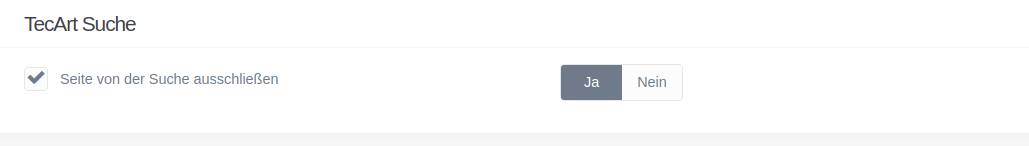
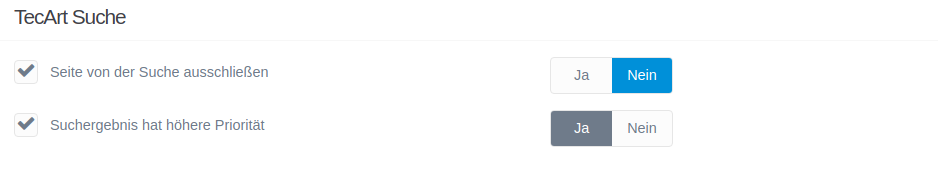
Add searchbox input focus and priority sort in search result list.

diff --git a/assets/js/tecart-search.min.js b/assets/js/tecart-search.min.js
@@ -1,1 +1,1 @@
-$(".tecart-search-toggle").on("click",function(){$(this).parent().find(".tecart-search-form").toggle("display: inline-block")}),$(document).ready(function(){$.ajaxSetup({cache:!1}),$(".tecart-search-box").keyup(function(t){const e=$(this).val(),a=$(this).data("storage"),s=$(this).data("linktarget"),i=$(this).data("empty"),c=$(this).data("resultheadline"),n=$(this).parent().find(".tecart-search-results"),r=new RegExp(e,"igm");let l="/user/data/tecart-search-index.json";"pages"===a&&(l="/user/pages/assets/tecart-search-index.json"),$.getJSON(l,function(t){"string"==typeof t||""==t||null==t?n.html('<li class="list-group-item link-class">'+i+"</li>"):(n.html('<li class="list-group-item headline-class"><h2>'+c+"</h2></li>"),$.each(t,function(t,e){-1==e.title.search(r)&&-1==e.content.search(r)||n.append('<li class="list-group-item link-class"><a href="'+e.route+'" target="'+s+'">'+e.title+' | <span class="text-muted">'+e.route+"</span></a></li>")}))})}),$(".tecart-search-results").on("click","li",function(){const t=$(this).find("a").attr("href"),e=$(this).find("a").attr("target");window.open(t,e),$(".tecart-search-results").html("")}),$(".tecart-search-close").on("click",function(){$(".tecart-search-form").toggle("display: none")})});
+$(".tecart-search-toggle").on("click",function(){$(this).parent().find(".tecart-search-form").toggle("display: inline-block"),$("input.tecart-search-box").focus()}),$(document).ready(function(){$.ajaxSetup({cache:!1}),$(".tecart-search-box").keyup(function(t){var e=$(this).val(),a=$(this).data("storage"),s=$(this).data("linktarget"),c=$(this).data("empty"),i=$(this).data("resultheadline");const r=$(this).parent().find(".tecart-search-results");var n=new RegExp(e,"igm");let l="pages"===a?"/user/pages/assets/tecart-search-index.json":"/user/data/tecart-search-index.json";$.getJSON(l,function(t){"string"==typeof t||""==t||null==t?r.html('<li class="list-group-item link-class">'+c+"</li>"):(r.html('<li class="list-group-item headline-class"><h2>'+i+"</h2></li>"),$.each(t,function(t,e){-1==e.title.search(n)&&-1==e.content.search(n)||r.append('<li class="list-group-item link-class"><a href="'+e.route+'" target="'+s+'">'+e.title+' | <span class="text-muted">'+e.route+"</span></a></li>")}))})}),$(".tecart-search-results").on("click","li",function(){var t=$(this).find("a").attr("href"),e=$(this).find("a").attr("target");window.open(t,e),$(".tecart-search-results").html("")}),$(".tecart-search-close").on("click",function(){$(".tecart-search-form").toggle("display: none")})});

diff --git a/assets/js/tecart-search.js b/assets/js/tecart-search.js
@@ -2,6 +2,7 @@
 $('.tecart-search-toggle').on('click', function() {
     // use classes and parent to be able to use search more than once on one page
     $(this).parent().find('.tecart-search-form').toggle('display: inline-block');
+    $("input.tecart-search-box").focus();
 });
 // End - Search Bar & Toggle
 

diff --git a/classes/BlueprintHelper/BlueprintHelper.php b/classes/BlueprintHelper/BlueprintHelper.php
@@ -11,34 +11,35 @@ use Grav\Common\Data\Data;
  */
 class BlueprintHelper extends Data {
 
-  /**
-   * function to call with parameters from blueprints to dynamically fetch the  option list
-   * do this by using data-*@: notation as the key, where * is the field name you want to fill with the result of the function call
-   *
-   * data-options@: 'Grav\Plugin\TecartSearch\Classes\BlueprintHelper\BlueprintHelper::getAdminPermissionsForBlueprintOptions'
-   *
-   * @return array
-   */
-  public static function getAdminPermissionsForBlueprintOptions(): array
-  {
-    $grav        = Grav::instance();
-    $return      = array();
-    $permissions = '';
-
-    if (!isset($grav['admin'])) {
-      return $return;
+    /**
+     * function to call with parameters from blueprints to dynamically fetch the  option list
+     * do this by using data-*@: notation as the key, where * is the field name you want to fill with the result of the function call
+     *
+     * data-options@: 'Grav\Plugin\TecartSearch\Classes\BlueprintHelper\BlueprintHelper::getAdminPermissionsForBlueprintOptions'
+     *
+     * @return array
+     */
+    public static function getAdminPermissionsForBlueprintOptions(): array
+    {
+        $grav = Grav::instance();
+        $return = array();
+        $permissions = array();
+        if (!isset($grav['admin'])) {
+            return $return;
+        }
+        if (\method_exists($grav['admin'], 'getPermissions')) {
+            $permissions = $grav['admin']->getPermissions();
+        } elseif (\method_exists($grav['permissions'], 'getInstances')) {
+            $permissions =$grav['permissions']->getInstances();
+        }
+        if (is_array($permissions) && !empty($permissions)) {
+            foreach (array_keys($permissions) as $permission) {
+                $return[] = [
+                    'text' => $permission,
+                    'value' => $permission
+                ];
+            }
+        }
+        return $return;
     }
-    if (\method_exists($grav['permissions'], 'getInstances')) {
-      $permissions = $grav['permissions']->getInstances();
-    }
-    if (is_array($permissions) && !empty($permissions)) {
-      foreach (array_keys($permissions) as $permission) {
-        $return[] = [
-          'text' => $permission,
-          'value' => $permission
-        ];
-      }
-    }
-    return $return;
-  }
 }

diff --git a/classes/SearchIndexer/SearchIndexer.php b/classes/SearchIndexer/SearchIndexer.php
@@ -73,12 +73,15 @@ class SearchIndexer {
             $routes = array_unique($pages->routes());
             ksort($routes);
 
+            $jsonArray = array();
+
             foreach ($routes as $route => $path) {
 
                 /** @var PageInterface $page */
                 $page = $pages->get($path);
                 $header = $page->header();
                 $page_ignored = $header->tecartsearch['ignore'] ?? false;
+                $page_has_higher_priority = $header->tecartsearch['has_higher_priority'] ?? false;
 
                 // only published and routable pages
                 if ($page->routable() && $page->published() && $page_ignored === false){
@@ -88,21 +91,25 @@ class SearchIndexer {
                     //$page_metadata = $page->metadata();
                     $page_content =$page->rawMarkdown();
 
-                    $page_data[] = [
+                    $page_data = [
                         'title' => $page->title(),
                       //'metadata' => $page_metadata,
                         'content' => $page_content,
                         'route' => $page_route,
                         'location' => $location,
+                        'has_higher_priority' => $page_has_higher_priority,
                     ];
-                    //dump($page);die();
 
                     // Encode post data to JSON data format. Pretty-Print for easy editing
-                    $jsonData = json_encode($page_data, JSON_PRETTY_PRINT);
-
-                    file_put_contents($file,$jsonData) ;
+                    array_push($jsonArray, $page_data);
                 }
             }
+            $sort_key = array_column($jsonArray, 'has_higher_priority');
+            array_multisort($sort_key, SORT_DESC, $jsonArray);
+
+            $jsonData = json_encode($jsonArray, JSON_PRETTY_PRINT);
+            file_put_contents($file,$jsonData) ;
+
             return  true;
         }
         return false;

diff --git a/README.md b/README.md
@@ -70,11 +70,18 @@ Plugin settings in Grav backend
 
 ![Plugin Settings](screenshot_settings.png)
 
-## Exclude pages from index
+## Page option settings
+
+![Search option pages](screenshot_page_options.png)
+
+### Exclude pages from index
 
 In options tab of page settings you can set option to ignore page from search.
 
-![Search ignore pages](screenshot_page_options.png)
+### Set higher priority in search result
+
+In options tab of page settings you can set if page has a higher priority in search result list.
+List items are sorted by this field (true/false) descending.
 
 ## Indexing
 
@@ -84,22 +91,25 @@ Only pages with **$page->routable()** and  **$page->published()** are included.
 ```json
 [
     {
-        "title": "Add-On-Framework f\u00fcr TecArt CRM Pro",
-        "content": "Kreieren Sie Ihre eigenen integrierten Add-ons f\u00fcr die CRM-Software von TecArt \u2013 unser professionelles Entwickler-Framework macht es m\u00f6glich. Dank zukunftsweisendem Customizing bleiben Sie in Ihren **Anwendungen und Erweiterungen flexibel und erschaffen eigene, effiziente Zusatzl\u00f6sungen** f\u00fcr Ihr Unternehmen. Setzen Sie mit dem Add-on-Framework auf eine Individuall\u00f6sung mit tiefer Integration in die Softwarestruktur!",
-        "route": "\/add-on-framework",
-        "location": "http:\/\/172.17.0.2\/add-on-framework"
+        "title": "CRM Preise - Cloud Server Vergleich \u2696 TecArt CRM Pro",
+        "content": "Die Kosten f\u00fcr den Betrieb der TecArt CRM-Software sind ebenso individuell wie Ihre Anforderungen. Je nach Bedarf und Lastenheft kann unsere [kostenfreie CRM-Freeware](https:\/\/www.tecart.de\/crm-free \"Kostenlose CRM Software - Cloud CRM Free\") bereits alle Bed\u00fcrfnisse erf\u00fcllen. Wollen Sie hoch hinaus mit Ihrem Business, lohnt sich die Investition in unsere [Cloud-Server-Software \u2013 ab 38 Euro im Monat](https:\/\/www.tecart.de\/crm-professional#konfigurieren \"TecArt Preise CRM Pro\") f\u00fcr jeden Nutzer.",
+        "route": "\/cloud-server-software",
+        "location": "http:\/\/172.17.0.2\/cloud-server-software",
+        "has_higher_priority": true
     },
     {
-        "title": "AGBs & rechtliches der TecArt GmbH",
-        "content": "- AGB - Allgemeine Gesch\u00e4ftsbedingungen\n- Vertrag zur Auftragsverarbeitung\n- Verf\u00fcgbarkeitsregelung",
-        "route": "\/agb-avv-verfuegbarkeitsregelung",
-        "location": "http:\/\/172.17.0.2\/agb-avv-verfuegbarkeitsregelung"
+        "title": "24\/7 Kundenservice - Das m\u00fcssen Support Ticket Systeme leisten",
+        "content": "##Was lernen Sie aus diesem Artikel?\n> Lassen Sie den Kunden weiterhin K\u00f6nig sein, aber ziehen Sie daraus Ihren eigenen Nutzen! Ticketsysteme sind wahre Servicewunder, die f\u00fcr Sie arbeiten. Die wichtigsten Funktionen, die Sie hierbei wirklich brauchen und wissen sollten, beschreibe ich Ihnen zusammengefasst im Artikel. Und weil eine Software nur so gut ist, wie ihr monet\u00e4rer Mehrwert, teile ich mit Ihnen einige Kniffe zur schnellen Einsch\u00e4tzung Ihrer Einsparpotenziale. \n\n![](header-fullscreen-bgneu-1650x880-test.jpg) \n\n##So verk\u00fcrzen Ticketsysteme die Bearbeitungszeiten von Kundenanfragen\nEin [Support Ticket System ](https:\/\/www.tecart.de\/ticketsystem) kanalisiert und strukturiert eingehende Anfragen. Es erm\u00f6glicht eine koordinierte Abarbeitung und integriert definierte Service-Prozesse. Eingehende Anfragen k\u00f6nnen in Kategorien unterteilt und an verantwortliche Teams oder einzelne Mitarbeiter zur Abarbeitung delegiert werden. Anfragen werden aus verschiedenen Quellen zusammengef\u00fchrt: Support E-Mails werden genauso bearbeitet, wie zum Beispiel Kundenanfragen \u00fcber Ihre Webseite via Web-Formular oder Kundenportal. Auch telefonisch angenommene Anfragen werden im System aufgenommen, beosnders einfach geht das alles, wenn die Kommunikationskan\u00e4le (E-Mail, Telefonanlage, Website\/Chat) direkt an das Ticketsystem angebunden sind. Im Idealfall ergibt sich eine Kundenhistorie - dank dieser Zentralisierung (360 Grad Blick) behalten Sie so den \u00dcberblick. Gute Ticketing-Systeme sind auch immer gute Collaboration-Tools, denn es geht im Kern um externe und interne Kommunikation. Nicht umsonst findet man diese Funktion oft in CRM-Systemen wieder.  Benachrichtigungen und Wiedervorlagen\/Erinnerungen stellen sicher, dass Anfragen nicht verloren gehen oder vergessen werden. Genau das, was Ihre Kunden zus\u00e4tzlich auf die Palme bringen w\u00fcrde.\n\n##Welche Funktionen muss ein Support Ticket System bieten?\nUm das von Ihnen gew\u00fcnschte, hohe Ma\u00df an Servicequalit\u00e4t zu erreichen, m\u00fcssen Ihre Prozesse stimmen! Die Abarbeitung einer Anfrage bzw. die Behebung eines Problems darf nicht stagnieren und der Bearbeitungsstand muss sich laufend \u00e4ndern. \u00dcber jede \u00c4nderung sollte der Anfragesteller informiert werden (z.B. Status-E-Mail).  Nur so f\u00fchlt sich ein Kunde nicht hingehalten, vergessen oder vernachl\u00e4ssigt. Der Lohn ist eine positive Einstellung zu Ihrem Unternehmen und Ihrem Service, auch wenn mal etwas nicht so funktioniert, wie erwartet. Das zahlt sich in der Regel durch Kundentreue und hohe Cross- und Upselling-Chancen aus. Besonders bei der Abbildung Ihrer Workflows und m\u00f6glicher Automatismen brauchen Sie ein Trouble Ticket System, dass sich hervorragend auf die eigenen Abl\u00e4ufe anpassen l\u00e4sst. Zum Beispiel [IT-Abteilungen, IT-Dienstleister und Softwarehersteller brauchen ein anpassbares Ticketsystem mit CRM- und ERP Funktionen ](https:\/\/www.tecart.de\/software-fur-it-branche).  \n\n![](ticketsystem-3d-animation-01.gif) \n**Abbildung:** [Screenshots vom TecArt CRM- & ERP f\u00fcr IT-Unternehmen ](https:\/\/www.tecart.de\/software-fur-it-branche#Features-IT-Unternehmen)\n\n\n\n###Mehr als nur Textfelder \nModerne Support Ticket Systeme m\u00fcssen neben der reinen Ticket-Datenbank auch weitere Informationen bereithalten k\u00f6nnen. Egal, ob Screenshots oder Dokumente. Weiterf\u00fchrende oder fallspezifische Inhalte m\u00fcssen im Ticket erfasst und verf\u00fcgbar sein. \u00c4u\u00dferst sinnvoll sind Verkn\u00fcpfungen mit anderen Vorg\u00e4ngen und Informationen. Das k\u00f6nnen Servicevertr\u00e4ge sein, genauso wie Informationen zum gekauften Produkt\/Ger\u00e4t (Seriennummern, Garantiefristen, Leistungsmerkmale etc.). Anders herum hilft es Account Managern und Kundenbetreuern sehr, wenn sie Informationen dar\u00fcber haben, welche Anfragen ihr Kunde an sie gerichtet hat.\n\n###Kategorisierung von Tickets \nTickets unterscheiden sich oft in der Anfrageart, aber z.B. auch im Bezug zu Ihrem Portfolio. Geht es um ein Ger\u00e4t oder eine Dienstleistung? Oder beides? In der Regel werden thematisch unterschiedliche  Anfragen auch von unterschiedlichen Mitarbeitern bearbeitet, je nach Qualifikation. Kategorien helfen dabei eine Anfrage in den richtigen Workflow zu bringen. Sehr gut konzipierte Ticketsysteme verf\u00fcgen \u00fcber einen hohen Anteil von Automatismen f\u00fcr standardisierte Arbeitsschritte und f\u00fchren den Anwender so durch den Abarbeitungsprozess.  Anhand von Kategorien k\u00f6nnen auch Priorit\u00e4ten f\u00fcr die Abarbeitung definiert werden.\n\n###Statusverteilung \nUm dem Kunden und anderen Mitarbeitern den aktuellen Stand eines Tickets anzuzeigen, m\u00fcssen unterschiedliche Status (nicht Stati!) angelegt werden k\u00f6nnen. Zwischen \"offen\", \"in Bearbeitung\" und \"erledigt\" liegen manchmal Welten... Zus\u00e4tzlich zum Beabeitungsstand kann der Status auch die Zust\u00e4ndigkeit beeinflussen. An dieser Stelle ist es sinnvoll, wenn die Software die beteiligten Personen (Kollegen und Kunden) bei einer \u00c4nderung automatisch benachrichtigt. Der Kollege wei\u00df Bescheid, der Kunde auch, und im Optimalfall bleiben Nachfragen einfach aus. \n\n###Zust\u00e4ndigkeitsverteilung \nNat\u00fcrlich muss ein Ticket auch von jemandem bearbeitet werden. Durch diese Funktion wird direkt am Ticket gekennzeichnet, welche Person f\u00fcr die weitere Bearbeitung zust\u00e4ndig ist. Dadurch entsteht eine Verbindlichkeit \u00fcber die Ausf\u00fchrung. Die Service-Leute haben besten Fall auch eine \u00dcbersicht im einfachen, aber effizienten Schema: eigene Tickets - offen \/ in Bearbeitung \/ erledigt. \n\n###Automatisierte Prozess\u00fcberwachung \nControllinginstrumente informieren fortlaufend \u00fcber wichtige Faktoren, wie Bearbeitungsdauer, Terminierung und Bearbeitungsqualit\u00e4t. Auf diese Weise werden Mitarbeiter an zeitkritische Tickets erinnert oder Projektleiter werden \u00fcber das Anfragevolumen informiert. Das setzt voraus, dass die Bearbeitungszeiten von Aufgaben, Anrufen und Terminen automatisch erfasst werden. Zus\u00e4tzlich m\u00fcssen sich alle Aktivit\u00e4ten mit Start und Endzeiten terminieren lassen. Statistische Auswertungen bietet an dieser Stelle ein weiteres, wichtiges Werkzeug, um die Servicequalit\u00e4t dauerhaft sicherzustellen und begleitende Ma\u00dfnahmen einzuleiten. \n\n###Workflows und Regeln festlegen \nDamit Sie Ihre Standards, z.B. f\u00fcr SLAs, halten oder gar anheben k\u00f6nnen, spielen Workflows eine zentrale Rolle. Dank Workflows stellen Sie sicher, dass Tickets schnell zum richtigen Bearbeiter kommen und effizient abgeabeitet werden. Au\u00dferdem sind Workflows ein zentrales Element zur Einhaltung von Qualit\u00e4tsmanagement- und Compliance-Vorgaben, insbesondere dann, wenn Ihre Organisation zertfiziert ist, z.B. nach einer ISO-Norm.\n\nAu\u00dferdem priorisieren Workflows die Tickets anhand von Dringlichkeiten und Kundenstatus automatisch. Abh\u00e4ngig von Ihren Anforderungen wirken die Regeln schon bei Erstellung des Tickets oder bei der Aktualisierung. Ebenfalls lassen sich so individualisierbare Benachrichtugungen an Mitarbeiter und Kunden versenden. \n\n##Ab wann lohnt sich der Einsatz eines Ticketsystems?\nDer Einsatz lohnt sich meist genau dann, wenn das Stresslevel mit der Frustrationsgrenze kollidiert. Das gilt f\u00fcr Ihre Kunden als auch f\u00fcr Sie selbst. Sobald die Menge an Anfragen einige wenige E-Mails und Anrufe an eine einzelne Person \u00fcbersteigt, lohnt sich der Einsatz eines Support Ticket Systems. Gute Ticketsysteme passen zu Ihren Anforderungen, egal ob vollintegriertes Workflow- und Compliance-Wunder oder einfach nur ein zentrales Tool zum Handling von Anfragen und Kommunikationsverl\u00e4ufen.\n\nNat\u00fcrlich gibt es neben den vorgestellten Funktionen noch weitere, die wichtig sein k\u00f6nnen. Das perfekte Setup erfahren Sie aber nur, wenn Sie wissen, was Sie wollen bzw. welche Ziele Sie erreichen wollen. Analysieren Sie Ihre Arbeitsweise und konzipieren Sie Ihre 100-Prozent-L\u00f6sung! Dann  gehen Sie auf Recherche und schauen, welches System am Besten zu Ihren Vorstellungen passt.   Wenn Sie alle Ihre Anforderungen ernsthaft und im Sinne Ihres Kunden aufgenommen haben, werden Sie bei der anschlie\u00dfenden Recherche feststellen, dass kaum ein Ticketsystem am Markt Ihre Anforderungen im Standard erf\u00fcllt. Je flexibler und individualisierbarer Ihre pr\u00e4ferierte Software ist, umso kosteng\u00fcnstiger werden die Folgekosten neben Lizenzpreisen sein. Der Einsatz eines Cloud Ticket Systems kann sich genauso lohnen wie der Betrieb einer eigenen Server-L\u00f6sung. Wenn im m\u00f6glichen Budgetrahmen ca. 80% Ihrer Optimall\u00f6sung abgedeckt sind, haben Sie in der Regel das richtige System gefunden.\n\nEgal wof\u00fcr Sie sich entscheiden: F\u00fcr eine hohe Kundenbindung ist ein agiler und zielf\u00fchrender Support unabdinglich. Ein Ticketsystems kann die Servicequalit\u00e4t drastisch verbessern und gleichzeitig die Arbeit erleichtern und besser strukturieren. Durch die gro\u00dfe Anzahl an kostenpflichtigen und kostenlosen Ticketsystemen ist die Einf\u00fchrung auch f\u00fcr mittelst\u00e4ndische Unternehmen machbar.\n\n##Wie hoch ist der ROI bei Ticketsystemen?\nLeider l\u00e4sst sich diese Frage nicht pauschal beantworten. Im Allgemeinen sind Service- und Supportabteilungen nicht an der prim\u00e4re Wertsch\u00f6pfung beteiligt. Ein direkter Bezug zum Umsatz ist nur in Einzelf\u00e4llen herstellbar. Das erschwert die ROI-Berechnung. Allerdings tragen Ticketsysteme zur Kostenreduzierung bei. So l\u00e4sst sich eine monet\u00e4re Bewertung der Mehrwerte berechnen. Grunds\u00e4tzlich wird der Mehrwert bzw. die Wertsch\u00f6pfung von Ticketsystemen in 5 Bereiche unterteilt.\n\n###1. Bereitstellung einer Wissensdatenbank\nSicher ist jede Anfrage individuell. Dennoch \u00e4hneln sich L\u00f6sungen und L\u00f6sungswege. Damit Ihre Mitarbeiter schneller Probleme l\u00f6sen, helfen Handbuch, Knowledgebase und\/oder Wiki mit Beschreibungen, Screenshots und Videos. Das reduziert die Zeit zur L\u00f6sungsfindung. Schauen Sie sich einfach Ihre aktuelle Arbeitsweise an und ermitteln Sie Ihren Zeit-Durchschnittswert pro Kundenvorfall. Nun bilden Sie Ihren Kundenvorfall in der  Live-Demo oder Testsystem Ihrer neuen bzw. pr\u00e4ferierten Ticketsoftware nach und ermitteln Sie die Einsparungspotenziale. Im Anschluss k\u00f6nnen Sie hochrechnen, wie viel mehr Kundenanfragen abgearbeitet werden. Neben der Kostenersparnis wird sich auch die Geschwindigkeit in der Kundenprobleme gel\u00f6st werden auf die Kundenzufriedenheit auswirken. Das wirkt sich dann wiederum auf Ihren Umsatz aus.  \n###2. Automatisieren von Routineaufgaben\nSobald der Gro\u00dfteil der Routineaufgaben Ihrer Mitarbeiter wegf\u00e4llt, ist mehr Zeit f\u00fcr wertsch\u00f6pfende T\u00e4tigkeiten - z.B. die Erstellung von hochwertigen Wikibeitr\u00e4gen oder sonstige Hilfestellung f\u00fcr Upsellingangebote. Mit Hilfe von Ticketsystemen werden z.B. Priorisierungen regelbasiert erstellt und Info-Mails an Mitarbeiter oder Kunden gehen anhand von abgeschlossenen Aktivit\u00e4ten automatisch raus. Wie viel Zeit Sie sparen, ermitteln Sie indem Sie die Zeit f\u00fcr diese T\u00e4tigkeiten stoppen. Anhand von Benchmarks k\u00f6nnen Sie so zwischen 60-80 % Zeit sparen. \n###3. Proaktives Handeln\nDurch proaktives Handeln lassen sich Arbeitszeiten pro Ticket sowie die Anzahl an Tickets reduzieren. Es kommt immer wieder vor, dass der Support auf die E-Mailanfrage keine Antwort erh\u00e4lt. Das Ticket wird aufgrund der fehlenden Kundenantwort geschlossen. Das heisst aber nicht, dass es dem Kunden egal ist oder das Problem sich von allein erledigt hat. Mitunter kann dieser aufgrund Zeitmangels keine schriftliche Antwort geben. Sobald der Kunde Zeit hat, meldet er sich. Entweder wird sein altes Ticket ge\u00f6ffnet oder ein neues angelegt. In beiden F\u00e4llen bedeutet es f\u00fcr den Mitarbeiter, sich neu mit dem Problem zu befassen. Arbeitszeit, die durch proaktives Handeln gespart wird. Au\u00dferdem l\u00f6st ein Follow-Up Telefonat positive Begeisterung aus. Dabei entstehen wichtige Informationen f\u00fcr den Vertrieb, die weiteres Upselling bedeuten. Ermitteln Sie Ihre Durchschnittswerte f\u00fcr die Anzahl an Upsellings, sowie die Anzahl an Tickets pro Kunde. So k\u00f6nnen Sie durchrechnen, was eine Steigerung von 5 % bzw. eine Reduzierung von 3 % bringt.\n###4. Mitarbeiter-Know-how richtig nutzen\nNicht jeder Mitarbeiter bei Ihnen hat den gleichen Stundenlohn bzw. Kostensatz. Der h\u00e4ngt von seinen F\u00e4higkeiten ab. Deshalb ist es wichtig, dass Ihre Mitarbeiter ihren F\u00e4higkeiten entsprechend eingesetzt werden. Ein Mitarbeiter der ein Ticket erh\u00e4lt, deren L\u00f6sung seine F\u00e4higkeiten \u00fcbersteigt, wird unn\u00f6tig langes diese Ticket bearbeiten. Im schlimmsten Fall wird er sich selbst Hilfe von Kollegen holen, die \u00fcberqualifiziert sind. Beides kostet Sie unn\u00f6tig Geld. \n###5. Kundenintegration mit Webportal\n\u00dcber ein Kundenportal pr\u00fcfen Kunden selbstst\u00e4ndig Preise und Produkte, recherchieren selbst nach L\u00f6sungen zu ihren Problemen oder geben Hilfestellung durch Screenshots und Bildschirmaufzeichnungen. Neben der Zeitersparnis, die Sie ermitteln (s. 1. Bereitstellung einer Wissensdatenbank), l\u00e4sst sich sogar die Steigerung an Angeboten, die Sie erzielen m\u00fcssen, hochrechnen. Es ist davon auszugehen, dass Ihr k\u00fcnftiges Kundenportal durch den Selfservicebereich 8-12 % mehr Verkaufsanfragen erzeugt. In Kombination mit dem durchschnittlichen Umsatz pro Upselling ermitteln Sie den m\u00f6glichen Umsatzboost.\n\n##Zum Schluss gebe ich Ihnen mit auf den Weg...\nLassen Sie sich nicht in den Wahnsinn treiben, wenn Sie laufend mit unkoordinierten und unqualifizierten Anfragen konfrontiert werden. Das Anliegen ist selbst oft gar nicht das Problem, sondern die gro\u00dfe Menge an Serviceanfragen und ein schlechtes Handling. Professionelle Ticketsysteme k\u00f6nnen das Arbeitsleben um einiges vereinfachen. Testen, ermitteln und probieren Sie es aus!",
+        "route": "\/blog\/funktionen-support-ticket-systeme",
+        "location": "http:\/\/172.17.0.2\/blog\/funktionen-support-ticket-systeme",
+        "has_higher_priority": false
     },
     {
-        "title": "TecArt Cloud Einstieg - mind. 435\u20ac sparen",
-        "content": "Nutzen Sie die Chance und steigen mit dem neuen TecArt CRM Pro in die deusche Cloud ein. Um Ihnen den Beginn leicht zu machen, haben wir ein unschlagbares Angebot geschn\u00fcrt.",
-        "route": "\/aktionen",
-        "location": "http:\/\/172.17.0.2\/aktionen"
+        "title": "4 Tipps f\u00fcr eine bessere B\u00fcroarbeit",
+        "content": "![Schreibtisch mit Unordnung](chris-adamus-schreibtisch-unordnung.jpg) \nAbbildung: [Chris Adamus](https:\/\/unsplash.com\/photos\/_aNFQ_7RxNc) \n\nWer kennt es nicht? Der Start in den Arbeitstag beginnt mit der Sichtung und Planung aller tagesaktuellen Aufgaben. So weit so gut! Wenn jedoch bereits nach wenigen Minuten klar wird, dass eigentlich mehr ansteht, als in den herk\u00f6mmlichen 8 Stunden zu schaffen w\u00e4re, wird der einst positive Start in den Tag ein wenig getr\u00fcbt. Die Motivationskurve sinkt, der Stresspegel steigt und produktive Arbeit wird unter diesen Voraussetzungen zu einer nicht wirklich effizienten Angelegenheit. Oft kann diese Problematik bereits mit kleinen und hilfreichen Ma\u00dfnahmen gel\u00f6st werden. Hier stellen wir einige Punkte vor, die sich schnell in die Tagesplanung integrieren lassen und letztendlich zu mehr Effizienz, Motivation und einem optimierten Aufgabenhandling beitragen. \n\n##1. Aufgabenlisten vereinfachen und reduzieren\nBei einer Priorit\u00e4tenliste gilt: Je mehr drauf steht, desto weniger kann geschafft werden! Das allein verringert bereits die eigene Motivation, die mit einer vollen Todo-Liste proportional sinkt. \n> **\u00dcberpr\u00fcfen Sie also zun\u00e4chst folgende Punkte: **\n- Ist ihre Priorit\u00e4tenliste zu komplex und mit zu vielen Details und Hinweisen versehen?\n- Ist Ihre Todo-Liste zu voll, zu unstrukturiert und mit allen m\u00f6glichen Aufgaben \u00fcberfrachtet?\n- Ist Ihre Todo \u2013Liste zu versteckt und sie m\u00fcssen immer unter Papierbergen und Notizzetteln danach suchen?\n\n###Dann k\u00f6nnten diese Ma\u00dfnahmen Abhilfe schaffen:\n- **Priorisierung der Aufgaben**: Es ist genau abzuw\u00e4gen, welche Aufgaben dringend sind und welche nicht. Getreu dem Eisenhower-Prinzip darf hier ruhig rigoros vorgegangen werden. Nur dringende und wichtige Aufgaben mit Termingebundenheit stehen auf der Todo-Liste ganz oben (A-Aufgaben).\u00a0 Alle dringenden, jedoch nicht \u201ebrennenden\u201c Aufgaben stehen darunter (B-Aufgabe). Alle weiteren nicht dringenden, aber dennoch wichtigen Aufgaben k\u00f6nnen unter C-Aufgaben dokumentiert und terminiert werden. Zu diesem Teil der Aufgaben werden Sie h\u00f6chstwahrscheinlich gar nicht mehr kommen.\u00a0 F\u00fcr die verbleibenden, weder dringenden noch wichtigen Aufgaben d\u00fcrfen Sie problemlos den Rotstift ansetzten und diese einfach streichen. Dadurch sorgen Sie f\u00fcr eine \u00fcbersichtliche Aufgabenstruktur, welche Ihnen die Abarbeitung erleichtert und Ihr Zeitmanagement optimiert. \n- **Unn\u00f6tige Zettelwirtschaft vermeiden**: Halten Sie sich beim Erstellen der Todo-Liste kurz und reduzieren Sie sich auf wesentliche Schlagw\u00f6rter! Eine zwei- oder gar mehrseitige Liste schaut sich keiner gern an. Entscheiden Sie sich f\u00fcr eine M\u00f6glichkeit, unn\u00f6tige Zettelwirtschaft ganz von Ihrem Platz fernzuhalten! Idealerweise verwenden Sie eine digitale Variante, die schnell griffbereit ist und immer \u00fcbersichtlich bleibt. \n- **Regelm\u00e4\u00dfige \u00dcberarbeitung der Todos**: Pflegen Sie Ihre Todo-Liste regelm\u00e4\u00dfig! Zum einen hilft dies, zu sehen, dass es voran geht, zum anderen k\u00f6nnen neue Aufgaben ber\u00fccksichtigt werden. In welchem Rhythmus dies geschieht, bleibt ganz Ihnen \u00fcberlassen. Manchmal bietet es sich zum Beginn oder Ende eines Tages an, die Liste zu sichten, um nicht erledigte Aufgaben ggf. gleich f\u00fcr den n\u00e4chsten Tag mit einzuplanen. \n> **Zwischenfazit:**\nBehalten Sie stets den \u00dcberblick \u00fcber Ihre zu erledigenden Aufgaben und erfreuen Sie sich an den vielen kleinen Haken an einzelnen Aufgaben! Das verhindert das Gef\u00fchl, dass einem alles \u00fcber den Kopf w\u00e4chst und erm\u00f6glicht sogar, hinzukommende Aufgaben t\u00e4glich mit aufzunehmen. Und auch wenn nicht immer alles genau so erledigt werden konnte, wie es geplant war, k\u00f6nnen Sie dennoch auf viele kleine, erfolgreich erledigte Aufgaben zur\u00fcckblicken. \n\n##2. Single Tasking f\u00fcr einen besseren Workflow nutzen\nKonzentrieren Sie sich auf nur eine Sache und nicht auf zwei, drei, vier\u2026 Sicherlich gibt es immer mal diese Momente, wo mehrere Sachen aufeinander fallen und gleichzeitig erledigt werden m\u00fcssen. Hinzukommen spontane Aufgaben, die \u201emal schnell und am besten schon gestern\u201c zu erledigen sind und die die morgendlich erarbeitete Todo-Liste in Frage stellen. Werden nichtsdestotrotz mehrere Aufgaben parallel ausgef\u00fchrt, tr\u00e4gt das unterm Strich nicht zwangsl\u00e4ufig zu einem schnelleren Ergebnis bei. Im Gegenteil, am Ende kostet das neben den Nerven der Mitarbeiter auch kostbares Geld seitens des Unternehmens.\n\n###Das sind die Gr\u00fcnde: \n- **Qualit\u00e4tsverlust**: Da der Fokus nicht zu 100% bei einer Aufgabe liegen kann, leidet die Qualit\u00e4t und am Ende erfordert es zus\u00e4tzlicher Nachbearbeitungszeit f\u00fcr jede einzelne Aufgabe. \n- **Sinkende Effizienz**: Der erh\u00f6hte koordinative Aufwand verhindert eine effiziente Arbeitsweise, da die Koordination der zus\u00e4tzlichen Aufgabenpakete im Vordergrund steht. \n- **Erh\u00f6hter Stresspegel**: Die Freude an der Arbeit leidet erheblich. Das wird nicht nur durch den eigenen erh\u00f6hten\u00a0 Stresspegel deutlich, auch gewinnen Kollegen den Eindruck, dass Sie gestresst und hektisch sind. Im schlimmsten Fall drohen bei einem solchen langfristigen Zustand \u201eBurnout Syndrom\u201c und lange Arbeitsausf\u00e4lle. Wenn Ihnen das bekannt vorkommt, gibt es einfache aber n\u00fctzliche Ma\u00dfnahmen, wie Sie Ihren gewohnten \u201eMulti-Tasking-Modus\u201c entfliehen k\u00f6nnen: \n- **Fokus setzen**: Fokussieren Sie stets nur eine Aufgabe und planen Sie von vornherein m\u00f6gliche \u201ePuffer\u201c mit ein! W\u00e4gen Sie die Dringlichkeit der zus\u00e4tzlichen Aufgabe genau ab und entscheiden Sie erst dann, ob diese ggf. zu einem sp\u00e4teren Zeitpunkt erledigt werden kann! \n- **Konzentrationstraining**: \u201e\u00dcbung macht den Meister\u201c und auch Single Tasking will gelernt sein. Lernen Sie sich auf nur eine Aufgabe zu konzentrieren und lassen Sie sich Zeit f\u00fcr dieses Vorhaben! Routine und Alltag sind der gr\u00f6\u00dfte Feind bei diesem Vorhaben und das muss erst trainiert werden. Doch der Aufwand lohnt sich! \n- **Strukturierte Aufgabenunterbrechung**: L\u00e4sst es sich nicht vermeiden, dass eine aktuelle Aufgabe tats\u00e4chlich nicht weiterbearbeitet werden kann, beenden Sie diese an einer geeigneten Stelle, um dort zu einem sp\u00e4teren Zeitpunkt wieder problemlos ankn\u00fcpfen zu k\u00f6nnen! \n- **Beenden von Aufgaben**: Erledigte Aufgaben k\u00f6nnen mit einem Haken versehen werden und von der Todo-Liste verschwinden. Der Vorteil dieser \u201eH\u00e4kchen\u201c liegt klar auf der Hand, denn unerledigte Dinge bleiben mit bis zu 90% besser im Ged\u00e4chtnis haften, als Erledigte. Das f\u00fchrt wiederum dazu, dass neu begonnene Aufgaben schlechter erledigt werden k\u00f6nnen, da die Gedanken immer noch um die offenen Todos kreisen. Die Freude \u00fcber eine abgehakte Aufgabe ist der beste Motivator f\u00fcr alle noch offenen Punkte der Todo-Liste. \n> **Zwischenfazit:**\nSingle Tasking f\u00fchrt durch bessere Konzentration, einen aufger\u00e4umten Geist und weniger Gedankenspr\u00fcnge zu einer entspannten Aufgabenbearbeitung. Die Wahrscheinlichkeit, in einen sogenannten \u201eFlow\u201c zu geraten, ist deutlich erh\u00f6ht, was sich sowohl positiv auf die Arbeitsgeschwindigkeit als auch auf die Kreativit\u00e4t auswirkt. M\u00f6gliche Fehler werden reduziert und komplexe Aufgaben oder Problemstellungen lassen sich dadurch schneller l\u00f6sen.\n\n##3. Lernen, auch mal NEIN zu sagen\nHierbei kommt es ganz auf die Pers\u00f6nlichkeit an, also darauf, wie mit der Bitte des Kollegen oder des Chefs umgegangen wird, die eine oder andere Aufgabe \u201emal schnell\u201c zu erledigen. Dabei wird seitens des Bittstellers auch gern getrickst. So rutscht einem ein \u201eja mach ich\u201c oft zu schnell \u00fcber die Lippen und der eigene Stresspegel steigt weiter.\n> Besonders anf\u00e4llig f\u00fcr ein \u201eJA\u201c sind jene Personengruppen, auf die eine oder mehrere untenstehende Angaben bewusst oder unbewusst zutreffen: \n- Sie f\u00fchlen sich insgeheim geschmeichelt, wenn Sie um Rat oder Hilfe gebeten werden.\n- Sie m\u00f6chten einfach gern helfen (Helfer-Syndrom).\n- Sie bef\u00fcrchten Konsequenzen, wenn Sie eine Aufgabe ablehnen.\n\n###Gehen Sie wie folgt vor:\n- **Ma\u00dfnahmen**: Wenn es darum geht, neue Aufgaben anzunehmen oder einzutakten, sollten Sie ruhig, konsequent und sachlich bleiben \u2013 den Fokus dabei stets auf Ihre Todos und Ihr m\u00f6gliches Pensum gerichtet. \n- **Alternativen anbieten**: Der Vorschlag anderer Kollegen, die diese Aufgaben gerade \u00fcbernehmen k\u00f6nnten, ein anderer Terminvorschlag oder die Unterst\u00fctzung bei vorbereitenden Ma\u00dfnahmen (Teilma\u00dfnahme) einer ganzen Aufgabe, k\u00f6nnen dem Gegen\u00fcber bereits entgegenkommen und dennoch den eigenen, zus\u00e4tzlichen Arbeitsaufwand in Grenzen halten. \n- **Folgen verdeutlichen**: Verdeutlichen Sie Ihrem Gegen\u00fcber, dass Sie sich \u00fcber das entgegengebrachte Vertrauen, bei der einen oder anderen Sache zu unterst\u00fctzen, sehr freuen aber eine Unterst\u00fctzung nur unter Konsequenzen f\u00fcr Ihren Arbeitsbereich erfolgen kann. So lassen sich bestimmte Projekte und Aufgabenfristen evtl. nicht einhalten, Sie sind nicht die qualifizierte bzw. zust\u00e4ndige Person daf\u00fcr oder allgemein gar nicht befugt, diese Aufgaben zu \u00fcbernehmen. \n> **Zwischenfazit:**\nWer immer \u201eJA\u201c sagt, ger\u00e4t in einen Teufelskreis, denn selbstverst\u00e4ndlich ist dieses Verhalten bei Chef und Kollegen gern gesehen, wenn Aufgaben abzugeben sind. Was den Respekt anbelangt, genie\u00dfen Ja-Sager weniger Ansehen als ihre Kollegen, die begr\u00fcndet auch mal \u201eNEIN\u201c sagen. Aus einer zus\u00e4tzlichen Aufgabe werden dann auch schnell zwei und mehr, was nicht selten in einer v\u00f6lligen \u00dcberlastung endet. Das begr\u00fcndete Ablehnen oder Terminieren au\u00dferplanm\u00e4\u00dfiger Aufgaben erm\u00f6glicht es dem Gegen\u00fcber, die Gr\u00fcnde zu verstehen und es entlastet einen selbst hinsichtlich weiterer Aufgabenberge.\n\n##4. Regelm\u00e4\u00dfige Ordnung am realen und virtuellen Arbeitsplatz\nR\u00e4umen Sie jeden Tag Ihren Schreibtisch auf und vermeiden Sie unn\u00f6tige Papierberge! Die Ordnung auf dem Tisch sorgt auch f\u00fcr Ordnung im Kopf. Ein vern\u00fcnftiger Datenspeicher unterst\u00fctzt Sie bei der Ordnung am Platz und strukturiert alle notwendigen und wichtigen Informationen in Ihrem Rechner. Legen Sie sich daher nur die Utensilien griffbereit, die Sie in Ihrem allt\u00e4glichen Gesch\u00e4ft auch tats\u00e4chlich brauchen! **Die Einhaltung folgender Punkte f\u00fchrt langfristig zu Ordnung am Arbeitsplatz:**\n- **Schreibtisch leer r\u00e4umen**: Bevor das Chaos zu gro\u00df wird, setzen Sie sich lieber regelm\u00e4\u00dfige Termine f\u00fcr die Ordnung am Platz! Planen Sie entweder jeden Tag vor Arbeitsende oder einmal zum Ende der Arbeitswoche alle unn\u00f6tigen Utensilien an ihren Platz zu bringen! Fakt ist, je regelm\u00e4\u00dfiger Sie sich dies als Aufgabe vornehmen, umso schneller geht die \u201eAufr\u00e4umaktion\u201c von statten. Bald geh\u00f6rt es zur Routine, genau wie morgens den Rechner anzuschalten. Einmal im Jahr kann es auch eine etwas gr\u00f6\u00dfer angelegte Reinigungsaktion geben. Sp\u00e4testens hier sollten alle nicht genutzten Informationen final abgeheftet oder auch vernichtet werden. Nat\u00fcrlich gilt das Ganze sowohl f\u00fcr den realen als auch den virtuellen Arbeitsplatz des Rechners. \n- **Individueller Arbeitsraum**: Gestalten Sie sich Ihren Arbeitsplatz ganz nach \u00a0Ihrem Geschmack und schaffen Sie so mehr Identifikation und Wohlf\u00fchlfaktoren f\u00fcr Ihre t\u00e4gliche Arbeit! Nat\u00fcrlich sollte man es hier nicht \u00fcbertreiben, schon gar nicht, wenn man nicht alleine im B\u00fcro sitzt. Dennoch sorgen ein Familienfoto oder die Lieblingspflanze am Platz bereits f\u00fcr Stressabbau und helfen dabei, die eingef\u00fchrte Ordnung am Platz auch zu halten. \n- **Geeignete Verwaltungstools**: Passgenaue Werkzeuge unterst\u00fctzen Sie an entscheidender Stelle darin, mehr Struktur und Ordnung zu schaffen. Filterfunktionen in E-Mail-Programmen oder eine automatisierte Zuweisung von eingehenden Anrufen zum jeweils zust\u00e4ndigen Mitarbeiter unterst\u00fctzen Sie ganz unbemerkt bei Ihrem Ordnungsvorhaben.\n> **Zwischenfazit:**\n\u201eNur das Genie beherrscht das Chaos\u201c mag wohl zutreffen, doch wenn es darum geht, seine t\u00e4gliche Arbeit im \u00dcberblick zu behalten sowie konzentriert und effizient zu arbeiten, braucht man dazu nicht nur Struktur in den Aufgaben, sondern auch Ordnung am Platz. Daher sollte die Arbeitsplatzordnung regelm\u00e4\u00dfig \u00fcberpr\u00fcft werden. Denn nur so kann dauerhaft und ohne gro\u00dfen Zeitaufwand eine produktive Atmosph\u00e4re geschaffen werden. \n\n##5. Res\u00fcmee\nWer also ruhig und konstatiert seine Aufgaben abarbeiten will, braucht entsprechende Anreize und M\u00f6glichkeiten, um schnell und effizient seinen Arbeitsalltag zu bestreiten. Moderne Software-L\u00f6sungen wie bspw. Dokumentenmanagement-Systeme, in Verbindung mit einem durchdachten Aufgaben- und Projektmanagement, bieten technisch passend strukturierte M\u00f6glichkeiten f\u00fcr eine einheitliche Informations- und Arbeitsbasis. Unser [Beratungsteam  ](https:\/\/www.tecart.de\/kontakt) informiert Sie gern zu den digitalen Werkzeugen moderner B\u00fcroorganisation. \n\n**Quellen:** [http:\/\/www.cio.de\/a\/10-tipps-wie-sie-im-buero-mehr-abarbeiten,2908854 ](http:\/\/www.cio.de\/a\/10-tipps-wie-sie-im-buero-mehr-abarbeiten,2908854),* Stand 19.05.16 *\n[http:\/\/www.business-wissen.de\/artikel\/arbeitsorganisation-verbessern-11-tipps-fuer-mehr-effizienz-am-arbeitsplatz ](http:\/\/www.business-wissen.de\/artikel\/arbeitsorganisation-verbessern-11-tipps-fuer-mehr-effizienz-am-arbeitsplatz)*, Stand 19.05.16 *\n[http:\/\/www.orga-dich.de\/artikel\/techniken\/singletasking-statt-multitasking\/ ](http:\/\/www.orga-dich.de\/artikel\/techniken\/singletasking-statt-multitasking\/)*, Stand 19.05.16",
+        "route": "\/blog\/4-tipps-fuer-eine-bessere-bueroarbeit",
+        "location": "http:\/\/172.17.0.2\/blog\/4-tipps-fuer-eine-bessere-bueroarbeit",
+        "has_higher_priority": false
     }
 ]
 ```

diff --git a/CHANGELOG.md b/CHANGELOG.md
@@ -1,23 +1,30 @@
+# v0.1.4
+##  01/10/2021
+
+1. [](#new)
+    * set focus on searchbox input field when search is shown
+    * add option to set higher priority in search result list to pages
+
 # v0.1.3
 ##  17/08/2021
 
 1. [](#update)
-   * update BlueprintHelper.php. Eliminate deprecated message > "Grav\Plugin\Admin\Admin::getPermissions() is deprecated since Admin 1.10, use $grav['permissions']->getInstances() instead"
+    * update BlueprintHelper.php. Eliminate deprecated message > "Grav\Plugin\Admin\Admin::getPermissions() is deprecated since Admin 1.10, use $grav['permissions']->getInstances() instead"
 
 # v0.1.2
 ##  10/06/2021
 
 1. [](#update)
-   * update blueprints.yaml
+    * update blueprints.yaml
 
 # v0.1.1
 ##  10/06/2021
 
 1. [](#new)
-   * add ignore from search option to pages
+    * add ignore from search option to pages
 
 # v0.1.0
 ##  05/05/2021
 
 1. [](#new)
-   * ChangeLog started...
+    * ChangeLog started...
